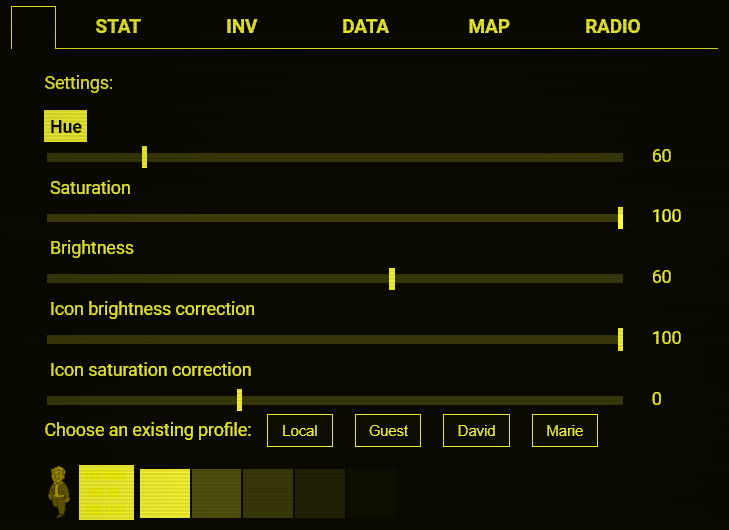
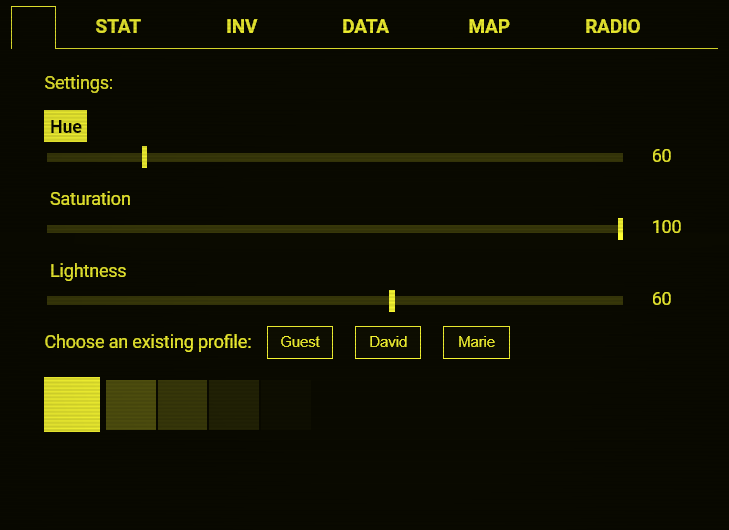
feat: Update color adjustment descriptions in README and localized README

diff --git a/localizedReadme/README-fr.md b/localizedReadme/README-fr.md
@@ -104,20 +104,8 @@ Vous trouverez cinq curseurs :
 - Saturation  
 → Indique l'intensité de votre couleur, de 0 (noir et blanc) à 100 (très coloré).  
   
-- Luminosité  
-→ Représente la luminosité de votre couleur. En raison de problèmes avec CSS et les filtres d'image, cela modifie la luminosité *ou* la clarté en fonction de l'élément qu'il modifie. Les valeurs supérieures à 60 ne fonctionneront pas comme prévu, car la clarté affecte également la saturation.  
-  
-- Correction de la luminosité des icônes  
-→ Comme il y a un problème connu avec la rotation des teintes par CSS, affectant également la saturation et la luminosité, j'ai ajouté ce curseur qui aide grandement à corriger la différence entre le texte et les icônes. Un carré sous le curseur aide à régler cette valeur correctement : le texte "Vous ne devez pas voir ce texte" écrit à l'intérieur ne doit pas être visible, ou du moins aussi peu que possible.  
-  
- - Correction de la saturation des icônes
- → Aide encore plus à corriger la différence entre le texte et les icônes.
-  
-![Correction non réglée](/readme_sources/images/iconCorrection1.PNG) ![Correction réglée](/readme_sources/images/iconCorrection2.PNG)  
-  
-Cette page de paramètres permet des configurations sympas comme par exemple celle de ma fiancée :  
-    
-![Page de statut rose](/readme_sources/images/pinkStatus.png)
+- Clarté  
+→ Représente la clarté de votre couleur. Attention : clarte ≠ luminosité, au dessus de 60, la clarté affecte également la saturation.  
 
 ### Affichage de l'inventaire
 

diff --git a/README.md b/README.md
@@ -104,20 +104,8 @@ You'll find five sliders:
 - Saturation  
 → Is how "powerfull" is your color, from 0 (black and white) to 100 (Really colorful).  
   
-- Brightness  
-→ Represents how bright is your color, because of issues with CSS and image filters, it modifies the brightness *or* the lightness depending on the element it modifies. Values above 60 will not work as intended since lightness kind of also affects saturation.  
-  
-- Icon brightness correction  
-→ Since there is a known problem with how CSS rotates Hue, also affecting saturation and brightness, I added this slider that helps greatly correcting the difference between text and icons. A square under the slider helps setting this value correctly: The text "You must not see this text" written inside it must not be visible, or at least as little as possible.  
-  
-- Icon saturation correction
-→ Helps even more correcting the difference between text and icons
-  
-![Correction not set](/readme_sources/images/iconCorrection1.PNG) ![Correction set](/readme_sources/images/iconCorrection2.PNG)  
-  
-This settings page allows for neat configs like for instance my fiancees:  
-    
-![Pink Status page](/readme_sources/images/pinkStatus.png)
+- Lightness  
+→ Represents how bright is your color, not to be confused with *brightness*, values of lightness above 60 also affect the saturation.  
 
 ### Inventory display
 
